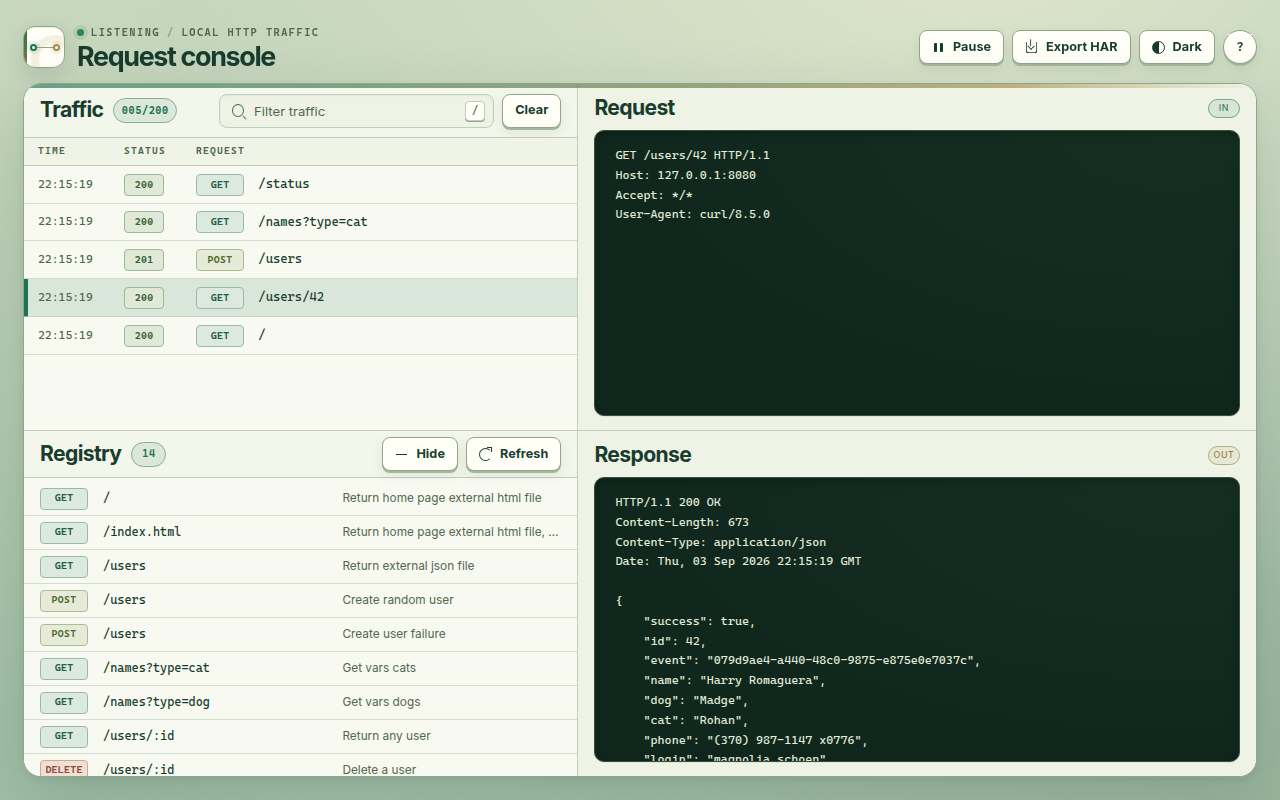
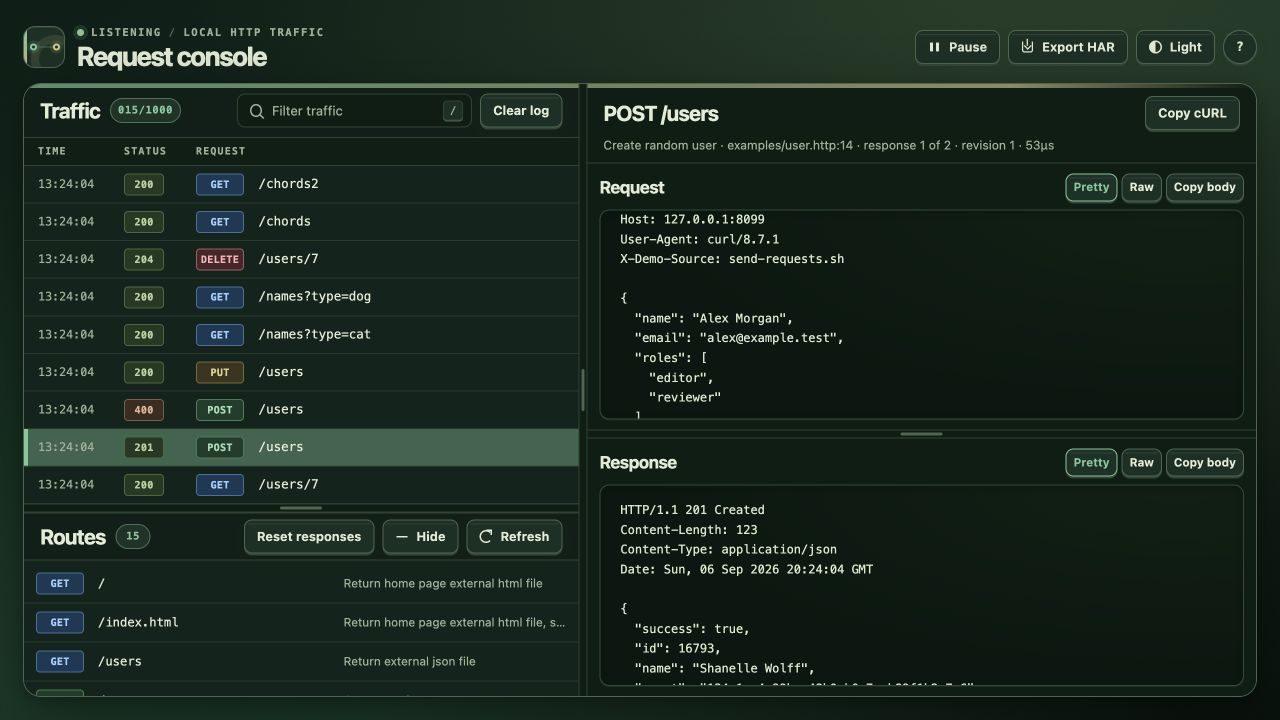
update screenshot

diff --git a/README.md b/README.md
@@ -78,7 +78,7 @@ the console. Rerun it whenever you need more traffic.
 
 ![Web Interface](./docs/web.png)
 
-*Screenshot from v0.1.2; the current inspector adds resize dividers, route details, and separate clear/reset controls.*
+*Dark-mode request console populated with `examples/send-requests.sh`, showing a successful POST request and its response.*
 
 You can also pipe a request file through stdin:
 
